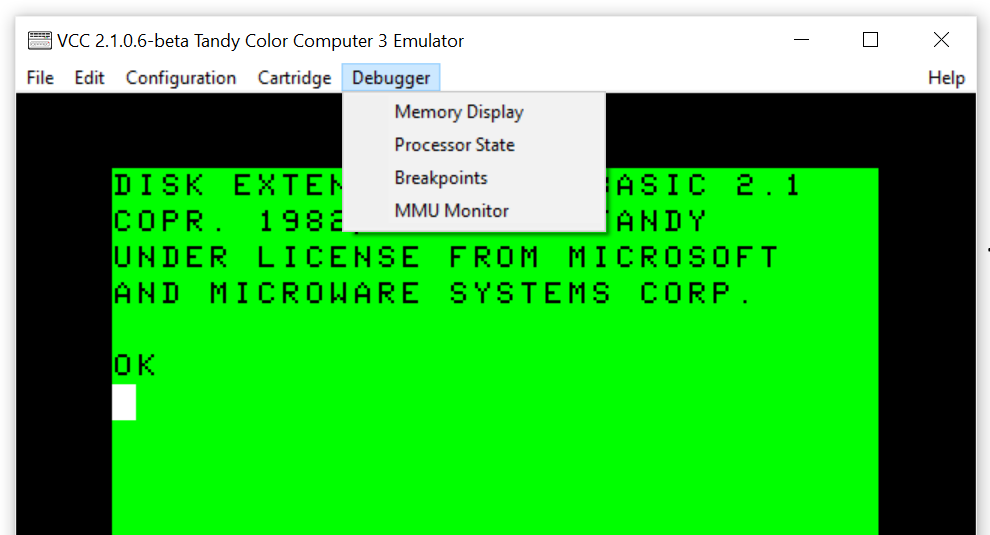
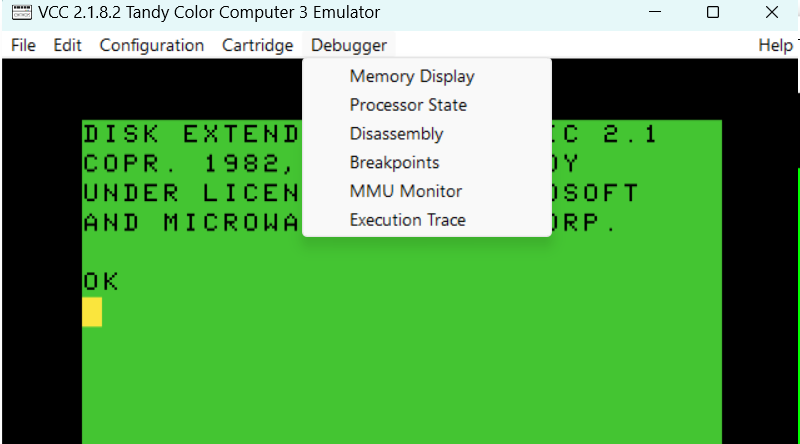
Update debugger description and images

diff --git a/docs/UserGuide.md b/docs/UserGuide.md
@@ -246,7 +246,7 @@ user of VCC as well as the "real" Color Computer 1, 2, & 3 hardware.
 As new developments are made on VCC, we hope to expand this manual as
 needed.
 
-As one last note: VCC *will* *always* *be* in a BETA state and by no
+As one last note: VCC is in a BETA state and by no
 means is a finished product. As of this release, quite a few things
 have been changed from the original. There are still many bugs to be
 worked out and enhancements to be added. It is this very reason the
@@ -264,10 +264,6 @@ tried to keep the "look and feel" of the real machine while
 maintaining a sense of a newer and better machine. There may be a few
 bugs lurking in the remnants of the old C code, but for the most part,
 the emulation is still one of the best Coco 3 emulations available.
-Currently, work is underway to convert VCC to *multi-platform*
-software, enabling VCC to be run on Windows, Mac, Linux and possibly
-even Mobile Devices. If this is accomplished, we will have a Coco 3
-emulator available for most *modern* systems.
 
 *System Requirements*
 -----------------------
@@ -405,8 +401,8 @@ The VCC Color Computer 3 installation is complete.
 ### *VCC 2.x.x.x Installation Zip File*
 
 Alternately, you can download the VCC 2.x.x.x zip file and install VCC
-as you please. This file will unzip to your desired folder and you
-will have to manually copy files to any destination you choose.
+as you please. This can be unzipped to your desired folder.  Newer
+versions of Windows may require you to mark the files as "safe."
 
 ### *VCC Installation Package Contents*
 
@@ -555,7 +551,7 @@ found on the internet or you can make your own.
   - **CPU**
     - **Overclocking:** Set as desired. Can effect game play.
     - **Memory Size:** 2048k
-    - **CPU:** MC6809 or MC6309, depending on OS9/NitrOS9 version.
+    - **CPU:** MC6809 or HD6309, depending on OS9/NitrOS9 version.
   - **Display**
     - **Monitor Type:** - RGB
     - **Frame Skip:** Default
@@ -956,10 +952,9 @@ cartridge slot add the following entries to the Cartridge menu:
       needed for the module to function using Coco Basic. This action may
       reset the Coco 3 based cartridge settings in the Misc tab. There
       is no advantage to selecting a module that does not require a rom.
-    - **Persistent Pak Images (New)** - Allows VCC to *remember* which
+    - **Persistent Pak Images** - Allows VCC to *remember* which
       carts you have selected and reloads them each time you run VCC. This
-      function is still a little wonky, but works unless you remove and
-      reinsert the MPI.
+      works unless you remove and reinsert the MPI.
 
 **fd502.dll**
 
@@ -1176,7 +1171,7 @@ memory size of your Coco 3 emulation.
     - **8192 K** - Emulates Paul T. Barton's 8 meg memory board
   - **CPU** - This option allows CPU selection for your Coco 3
     - **Motorola MC6809** - The standard Color Computer 6809 CPU
-    - **Hitachi HD6309** - Emulates use of Hitachi's HD68B09 CPU.  Faster
+    - **Hitachi HD6309** - Emulates use of Hitachi's HD6309 CPU.  Faster
       than the 6809 with an enhanced instruction set.  This CPU was a popular
       mod for Coco users in the early 1990s.
 
@@ -1561,17 +1556,23 @@ closed, the emulator's framerate are not impacted.
 64KB processor space. All values in the memory display are updated in
 real time.
 
+<p align=center><img src="images/ugima54.png" alt="UG Image 54"></img></p>
 **Processor State** - Selecting the Processor State option will show the
-internals of the CPU. All values displayed are updated in real
-time. Use the "Halt", "Run", and "Step" buttons to control CPU state.
-The "SetPC" box and button can be used to change the program counter to 
-a specific hex address.  The CPU must be halted to change the PC. 
+Processor Window which shows CPU registor values and the current instruction
+in real time.  Use the "Halt", "Run", and "Step" buttons to control
+instruction execution.  Use the "SetPC" box to change the program counter to 
+a specific hex address.  The CPU must be halted to change the PC.
 
-<p align=center><img width="600" height="400"
-   src="images/ugima30.jpeg" alt="UG Image 30"></img></p>
+<p align=center><img src="images/ugima55.png" alt="UG Image 55"></img></p>
+**Disassembly** - Selecting the Disassembly option will show the
+Disassembly Window.  If you enter a "From" and "To" address range and 
+press the "Apply" button the window will show you disassembled code for
+that range.  Addresses must be entered in hexidecimal and the maximum
+range is 4K butes (1000 hex).
 
+<p align=center><img src="images/ugima56.png" alt="UG Image 56"></img></p>
 **Breakpoints** - Selecting the breakpoints option will allow you
-    to load an LWASM source listing and set breakpoints.
+to load an LWASM source listing and set breakpoints.
 
 The Source Debugger can only deal with certain source listings. Currently the 
 breakpoints window will only accept  *LWASM Source Listings*. To create such as 
